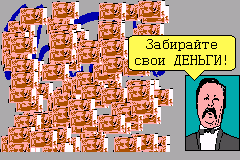
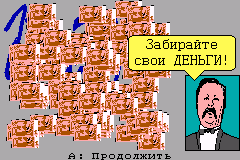
1.1 UI minor fixes

diff --git a/scripts/verify_scene.py b/scripts/verify_scene.py
@@ -126,16 +126,16 @@ check('board has three rows with a taller shared middle row',all(pixels[y*240+40
 stone=(ROOT/'assets/generated/blue-stone-extension.bin').read_bytes()
 check('drawn blue stone course stays continuous behind wheel',all(pixels[44*240+x]==palette[stone[52*192+x%192]] for x in range(15,225)))
 check('drawn stone course uses only original masonry colours',set(stone)=={0,1,7,9})
-check('raised portrait has six clear rows before score panel',all(pixels[y*240+x]==palette[7] for y in range(132,138) for x in range(185,240)))
+check('lowered portrait has four clear rows before score panel',all(pixels[y*240+x]==palette[7] for y in range(138,142) for x in range(185,240)))
 snickers=rom[e.sym['small_data_28']-0x08000000:e.sym['small_data_28']-0x08000000+34*9]
-check('all three players show the same Snickers at zero',all(pixels[(by+y)*240+bx+5+x]==palette[v] for bx,by in ((1,73),(141,73),(164,138)) for y in range(9) for x in range(34) if (v:=snickers[y*34+x])!=7))
-check('human zero badge has no YOU label or extra panel',all(pixels[y*240+x]==palette[7] for y in range(138,148) for x in range(185,240) if not(169<=x<203 and y<147)))
+check('all three players show the same Snickers at zero',all(pixels[(by+y)*240+bx+5+x]==palette[v] for bx,by in ((1,73),(141,73),(164,142)) for y in range(9) for x in range(34) if (v:=snickers[y*34+x])!=7))
+check('human zero badge has no YOU label or extra panel',all(pixels[y*240+x]==palette[7] for y in range(142,152) for x in range(185,240) if not(169<=x<203 and y<151)))
 e.screenshot('layout-fixed.png')
 preview('layout-preview.png')
 e.poke(11,30000);e.poke(18,1);store_u32(e,'dirty',1);e.run(15);pixels=ppu();e.screenshot('score-spacing.png')
 check('revealed cells restore original light grey',pixels[12*240+left+8]==palette[7])
 font8=(ROOT/'assets/font-8.bin').read_bytes()
-check('human five-digit score fits the shared badge',all(pixels[(139+y)*240+166+i*8+x]==palette[0 if font8[ch*8+y]&(128>>x) else 5] for i,ch in enumerate(b'30000') for y in range(8) for x in range(8)))
+check('human five-digit score fits the shared badge',all(pixels[(143+y)*240+166+i*8+x]==palette[0 if font8[ch*8+y]&(128>>x) else 5] for i,ch in enumerate(b'30000') for y in range(8) for x in range(8)))
 # Longest question is tested at native font size, with every letter visible.
 words=json.loads((ROOT/'assets/words.json').read_text(encoding='utf-8'));longest=max(range(len(words)),key=lambda i:len(words[i]['word']))
 e.poke(6,longest)
@@ -152,10 +152,10 @@ portrait_frames=set();portrait_outline_ok=True
 for frame in range(260):
  e.run(1)
  pixels=ppu()
- outline=[pixels[56*240+x] for x in range(185,240)]+[pixels[131*240+x] for x in range(185,240)]
- outline += [pixels[y*240+185] for y in range(56,132)]+[pixels[y*240+239] for y in range(56,132)]
+ outline=[pixels[62*240+x] for x in range(185,240)]+[pixels[137*240+x] for x in range(185,240)]
+ outline += [pixels[y*240+185] for y in range(62,138)]+[pixels[y*240+239] for y in range(62,138)]
  portrait_outline_ok=portrait_outline_ok and all(v==palette[0] for v in outline)
- portrait_frames.add(bytes().join(struct.pack('<H',pixels[y*240+x]) for y in range(57,112) for x in range(196,226)))
+ portrait_frames.add(bytes().join(struct.pack('<H',pixels[y*240+x]) for y in range(63,118) for x in range(196,226)))
 check('host contour stays intact and idle face has no unsolicited animation',portrait_outline_ok and len(portrait_frames)==1)
 e.screenshot('portrait-outline.png')
 # Check the coloured Prize glyph at every real wheel phase, including its inner edge.
@@ -180,6 +180,6 @@ for frame in range(450):
 check('Prize contour checked in all 32 moving wheel phases',len(seen)==32)
 
 e.close();gif(OUT/'studio-demo.gif',frames,e.format)
-report=dict(status='passed',count=len(checks),checks=checks,rom_sha256=hashlib.sha256((ROOT/'build/gba/pole.gba').read_bytes()).hexdigest(),source_reference='build/reference/original-*.png',native_glyph_height=14,sign_height=12,sign_strokes_checked=sign_strokes,host_x=185,host_y=56,score_panel_y=138,right_contestant_x=153,max_contestant_width=max(widths),animation_frames=len(frames))
+report=dict(status='passed',count=len(checks),checks=checks,rom_sha256=hashlib.sha256((ROOT/'build/gba/pole.gba').read_bytes()).hexdigest(),source_reference='build/reference/original-*.png',native_glyph_height=14,sign_height=12,sign_strokes_checked=sign_strokes,host_x=185,host_y=62,score_panel_y=142,right_contestant_x=153,max_contestant_width=max(widths),animation_frames=len(frames))
 (OUT/'visual-report.json').write_text(json.dumps(report,indent=2))
 print(json.dumps(report))

diff --git a/scripts/verify_v11.py b/scripts/verify_v11.py
@@ -46,6 +46,38 @@ check('compact version fits the final grid cell',all(title_pixels[(122+y)*240+21
 check('version keeps the grid cell border intact',all(title_pixels[y*240+234]==6 for y in range(115,134)) and all(title_pixels[134*240+x]==6 for x in range(213,235)))
 check('version no longer touches the dedication',all(title_pixels[y*240+x]==7 for y in range(8) for x in range(208,232)))
 
+# Waiting screens advertise their real confirmation; timed scenes stay uncluttered.
+font8=asset('font8',256*8)
+def footer_matches(label,x=None,width=240):
+ pixels=ppu();row=bytearray([7]*(width*8));encoded=label.encode('cp866')
+ if x is None:x=(240-len(encoded)*8)//2
+ for i,ch in enumerate(encoded):
+  for y in range(8):
+   for xx in range(8):
+    if font8[ch*8+y]&(128>>xx):row[y*width+x+i*8+xx]=0
+ return all(pixels[(152+y)*240+xx]==row[y*width+xx] for y in range(8) for xx in range(width))
+for mode,player,round_no,deal,label in (
+ (9,2,0,0,'A: Продолжить'),(9,0,2,0,'A: Продолжить'),
+ (9,2,2,0,''),(10,2,0,0,'A: Продолжить'),(10,2,0,6,''),
+ (3,2,0,0,'A: Выбрать букву'),(4,2,0,0,'A: Открыть букву'),
+ (8,2,0,0,'A: Выбрать шкатулку'),(3,0,0,0,'')):
+ turn()
+ for i,v in {3:mode,4:round_no,5:player,82:deal}.items():e.poke(i,v)
+ write('scene',read('video_ticks'),4);write('dirty',1);e.run(16)
+ check(f'footer mode {mode}, player {player}, round {round_no}, deal {deal}',footer_matches(label))
+ if mode in (9,10) and label:
+  e.run(650);check('untimed screen keeps waiting with hint',e.state()[3]==mode and footer_matches(label))
+  shot(f'waiting-{mode}-{player}-v11.png');e.tap(8)
+  check('advertised A advances waiting screen',e.state()[3]!=mode)
+for final in (0,1):
+ turn();e.poke(3,19);e.poke(83,0);write('scene',final,180);write('scene',0,184);write('dirty',1);e.run(16)
+ check('first gift page omits unavailable Back',footer_matches('A: Продолжить',4,200))
+ e.tap(0);check('B stays on first gift page',read('scene',184)==0)
+ shot(f'gift-first-{final}-v11.png');e.tap(8);e.run(16)
+ check('later gift page advertises working Back',read('scene',184)==1 and footer_matches('A: Далее  B: Назад',4,200))
+ e.tap(0);check('B returns to first gift page',read('scene',184)==0)
+turn()
+
 # Source-independent topology: straight parallel stems and a single closed
 # counter, not merely agreement with the asset-generation implementation.
 spec=json.loads((ROOT/'assets/wheel-digits.json').read_text())
@@ -146,9 +178,9 @@ def composite(canvas,seed,n):
  for _ in range(n):
   seed=(seed*134775813+1)&0xffffffff
   seed=(seed*134775813+1)&0xffffffff;x=((seed>>16)%400)*35//96
-  seed=(seed*134775813+1)&0xffffffff;y=((seed>>16)%295)//2
+  seed=(seed*134775813+1)&0xffffffff;y=((seed>>16)%295)*133//295
   for yy,xx,data in spans:
-   if y+yy>=152:continue
+   assert y+yy<150, 'whole banknote must fit above footer'
    p=(y+yy)*240+x+xx;canvas[p:p+len(data)]=data
  return bytes(canvas),seed
 def cash_fixture(amount):
@@ -176,6 +208,8 @@ for amount in (100,1000,100000,1000000):
  e.until(lambda s:read('cash')==read('cash',4),limit=3000);e.run(16)
  check(f'{amount} skip uses prepared picture' if amount>=100000 else f'{amount} skip equals every original stamp',memory('cash_canvas',38400)==expected and read('cash',8)==end_seed)
  check(f'{amount} completed screen waits for next A',e.state()[3]==21)
+ check(f'{amount} bills preserve bottom margin and footer canvas',memory('cash_canvas',38400)[150*240:]==canvas[150*240:])
+ check(f'{amount} completed payout advertises continuation',footer_matches('A: Продолжить'))
  if amount==1000000:shot('cash-filled-v11.png')
  e.tap(8);check(f'{amount} completed payout proceeds to farewell',e.state()[3]==10 and e.state()[82]==0)
 

diff --git a/scripts/pack.py b/scripts/pack.py
@@ -83,8 +83,8 @@ def main():
  for _ in range(100000):
   seed=(seed*134775813+1)&0xffffffff
   seed=(seed*134775813+1)&0xffffffff;x=((seed>>16)%400)*35//96
-  seed=(seed*134775813+1)&0xffffffff;y=((seed>>16)%295)//2
-  cash_blit(half[56],x,y,2,152)
+  seed=(seed*134775813+1)&0xffffffff;y=((seed>>16)%295)*(150-half[56][1]+1)//295
+  cash_blit(half[56],x,y,2,150)
  code.append(arr('cash_finished_bitmap',finished))
  stage=build_stage(half)
  # Bake wheel composites from original sprites; scaling is not repeated per frame.

diff --git a/scripts/verify_flows.py b/scripts/verify_flows.py
@@ -128,6 +128,9 @@ for gift in range(10):
  e.poke(2,seed);e.tap(8)
  check(f'four cash refusals draw original Prize gift {gift}',
        e.state()[3]==10 and e.state()[82]==6 and e.state()[83]==gift)
+ e.run(24)
+ if gift==0:prize_intro=e.raw;preview('prize-intro-v11.png')
+ else:check(f'gift {gift} stays undisclosed on studio screen',e.raw==prize_intro)
  e.tap(8);e.run(24)
  rng=e.state()[2]
  for page in range(3):

diff --git a/docs/development.md b/docs/development.md
@@ -12,7 +12,11 @@
 
 У барабана 32 шага вращения с четырьмя исходными кадрами. Обозначения подготовлены отдельно высотой 12 пикселей, чтобы целиком помещаться в сектор: чёрные цифры находятся на белом фоне, белые — на чёрном. Для всех 512 размещений проверяются контраст подложки и отсутствие пересечений. Исходные значки высотой 16 пикселей остаются в ресурсах. Поля вокруг барабана сокращены; для самого широкого правого игрока оставлен зазор не менее трёх пикселей до отдельной области Якубовича.
 
-Табло состоит из трёх общих рядов высотой 8/16/8 пикселей. Буквы находятся в среднем ряду, закрытые клетки залиты исходным тёмно-серым, открытые — светло-серым. Вложенных рамок нет. В клавиатуре оставлен отступ над глифом, поэтому верхний знак исходной «Й» не сливается с границей клавиши. Портрет поднят на 18 пикселей, до счёта оставлено шесть строк; счёт человека использует общую плашку 44×10 на X=164, Y=138, без подписи «ВЫ». При нуле у всех трёх игроков показывается «Сникерс».
+Табло состоит из трёх общих рядов высотой 8/16/8 пикселей. Буквы находятся в среднем ряду, закрытые клетки залиты исходным тёмно-серым, открытые — светло-серым. Вложенных рамок нет. В клавиатуре оставлен отступ над глифом, поэтому верхний знак исходной «Й» не сливается с границей клавиши. Портрет расположен на Y=62, до счёта оставлено четыре строки; счёт человека использует общую плашку 44×10 на X=164, Y=142, без подписи «ВЫ». При нуле у всех трёх игроков показывается «Сникерс».
+
+Все четыре исходных кадра барабана 223×172 обрываются у нижнего края. По итогам проверки 1.1 этот край сохранён как в DOS: дорисовка и изменение пропорций не применялись.
+
+Итоги раунда без таймера, прощание и завершённая выдача денег показывают «A: Продолжить». Выбор буквы, позиции в секторе «Плюс» и шкатулки сопровождается подсказкой соответствующего действия A. На первой странице обеих подарочных веток показано только продолжение; «B: Назад» появляется со второй страницы. В просмотре авторов из меню B работает и на первой странице, поэтому там подсказка сохранена.
 
 По отдельному запросу дорисована нижняя часть синей стены. [Новая текстура](../assets/generated/blue-stone-extension.png) создана встроенным imagegen по трём исходным каменным плиткам и приведена к четырём исходным цветам. Она используется только в нижнем поясе высотой 13 пикселей; остальные исходные текстуры не заменялись. [Полный промпт](../assets/generated/blue-stone-extension.prompt.txt), исходный результат генерации и индексированный ресурс сохранены в `assets/generated`.
 
@@ -48,6 +52,8 @@ PC Speaker синтезируется прямоугольной волной ч
 Ghidra импортирует исходный MZ-файл, анализирует 235 функций, именует восстановленные игровые процедуры и экспортирует C-псевдокод и ассемблер. Проект сохраняется в `build/ghidra/Wonderfield.gpr`. [Описание форматов и адресов](../docs/reverse.md).
 
 ## Проверка
+
+Координата Y купюр масштабируется из исходного диапазона 0–294 в 0–132: рисунок 28×18 целиком помещается до Y=149, строки 150–151 оставлены свободными перед нижней панелью. Порядок вызовов RNG, число купюр и темп выдачи сохранены. Та же геометрия используется при подготовке картинки быстрого пропуска. `verify_v11.py --long` сверяет естественную выдачу с независимым композитором и проверяет нижний зазор. Перед подарочным сертификатом показывается только реплика ведущего, без названия подарка; `verify_flows.py` проверяет одинаковый кадр студии для всех десяти подарков и полный текст сертификатов.
 
 В 1.1 маски числовых секторов хранятся в `assets/wheel-digits.json` отдельно от извлечённых DOS-ресурсов. Проверяются штрихи цифр и внутренние просветы нулей во всех 32 фазах, включая прямую правую границу нуля у «10» и «20». Исходные изображения секторов не меняются.
 

diff --git a/CHANGELOG.MD b/CHANGELOG.MD
@@ -25,6 +25,10 @@
 
 ### Игровые сцены и диалоги
 
+- Купюры размещаются с учётом полной высоты и больше не обрезаются нижней панелью; оставлен зазор 2 пикселя. Исправлена также готовая картинка быстрого пропуска.
+- Название подарка показывается только в сертификате; повторная плашка на предшествующем экране ведущего убрана.
+- Добавлена подсказка «A: Продолжить» для итогов раунда без таймера, прощания и завершённой выдачи денег; выбор буквы, позиции и шкатулки сопровождается подсказкой A. На первой странице подарка убрана неработающая подсказка B.
+- Портрет ведущего опущен на 6 пикселей, счёт человека — на 4: облачко больше не перекрывает верх головы. Нижний край барабана проверен по DOS-ресурсам и сохранён без дорисовки.
 - Восстановлен пропуск всех реплик ИИ новым нажатием A, включая первые кадры. Удержание не пропускает следующую сцену, а ускорение не меняет случайный выбор ИИ. Без нажатий сохраняются интервалы 3/4 секунды.
 - После исходного экрана Димы Башурова добавлен экран «GBA-версия от Ретрогейминг на балконе» с QR-кодом Telegram-канала. Он завершает обе подарочные ветки; обычный проигрыш не дополнен титрами. Оба авторских экрана доступны из меню, без таймаутов и изменения партии.
 - Подготовка хода ИИ, приглашение выбрать букву или позицию, ответы ИИ, обе реплики у шкатулок и реакция ведущего перед проходом помощницы показываются по 3 секунды. Короткие отдельные таймеры этих сцен устранены; пауза сохраняет оставшееся время.

diff --git a/BACKLOG.md b/BACKLOG.md
@@ -2,6 +2,8 @@
 
 ## 1.1
 
+- [x] Купюры целиком помещаются над нижней панелью с зазором 2 пикселя, включая быстрый пропуск. Название подарка убрано с экрана ведущего перед сертификатом; результат проверен визуально в mGBA.
+- [x] Добавлены недостающие подсказки A на экранах ожидания и выбора; убрана подсказка B на первой странице подарка. Портрет опущен на 6 пикселей, счёт человека — на 4. Обрезка барабана подтверждена в исходной DOS-графике и оставлена без изменений.
 - [x] Справка сокращена до одного экрана с общими кнопками и командами ввода имени в порядке «пробел / сохранить»; убраны дублирующая строка об отправке слова, лишние нижние подсказки и строка об авторе.
 - [x] Меню и справка приведены к серому оформлению окна приза с исходным шрифтом 8×14. Добавлены «Об авторах» в обоих меню и экран GBA-версии с QR-кодом после исходного авторства Димы Башурова. Восстановлен пропуск всех реплик ИИ по A без влияния на случайный выбор.
 - [x] L полностью отключает аппаратный звуковой выход на всех экранах; при выключенном звуке слева вверху показан перечёркнутый динамик. Звуковые эффекты продолжают отсчитываться без накопления очереди.
